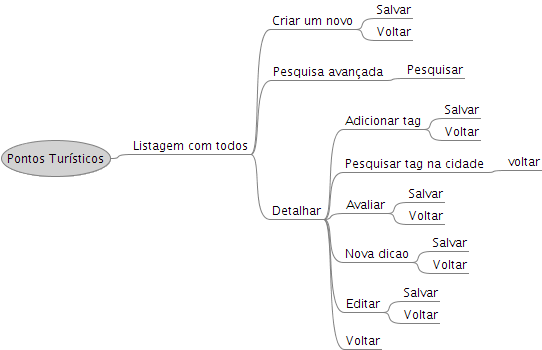
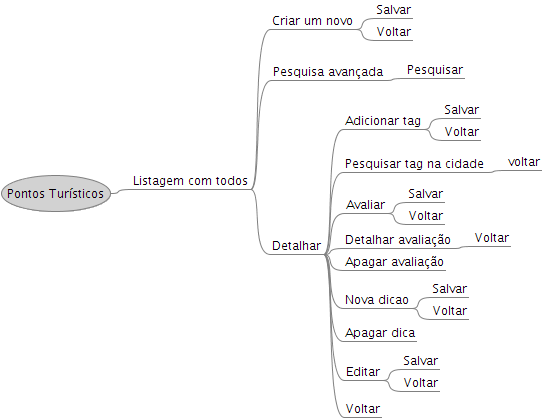
Diagramas de navegação para atribuir dica, atribuir tag, avaliar tema, manter estabelecimento, manter evento, manter usuario e logar no sistema.

diff --git a/documentacao/DiagramasNavegacao/Manter pontoTuristico/manterPontoTuristico.mm b/documentacao/DiagramasNavegacao/Manter pontoTuristico/manterPontoTuristico.mm
@@ -21,10 +21,15 @@
 <node CREATED="1253023569615" ID="Freemind_Link_1799419601" MODIFIED="1253023578962" TEXT="Salvar"/>
 <node CREATED="1253023580273" ID="Freemind_Link_1809619564" MODIFIED="1253023581449" TEXT="Voltar"/>
 </node>
+<node CREATED="1253101224906" ID="Freemind_Link_559347411" MODIFIED="1253101229802" TEXT="Detalhar avalia&#xe7;&#xe3;o">
+<node CREATED="1253101235134" ID="Freemind_Link_1434633921" MODIFIED="1253101236657" TEXT="Voltar"/>
+</node>
+<node CREATED="1253101238304" ID="Freemind_Link_692683979" MODIFIED="1253101243496" TEXT="Apagar avalia&#xe7;&#xe3;o"/>
 <node CREATED="1253023590004" ID="Freemind_Link_1286250133" MODIFIED="1253023757115" TEXT="Nova dicao" VSHIFT="5">
 <node CREATED="1253023598645" ID="Freemind_Link_1900614142" MODIFIED="1253023599679" TEXT="Salvar"/>
 <node CREATED="1253023600743" ID="Freemind_Link_898643252" MODIFIED="1253023601819" TEXT="Voltar"/>
 </node>
+<node CREATED="1253101248282" ID="Freemind_Link_572435488" MODIFIED="1253101250799" TEXT="Apagar dica"/>
 <node CREATED="1253023610716" HGAP="21" ID="Freemind_Link_1827640513" MODIFIED="1253023758203" TEXT="Editar" VSHIFT="6">
 <node CREATED="1253023666850" ID="Freemind_Link_559421307" MODIFIED="1253023668096" TEXT="Salvar"/>
 <node CREATED="1253023669313" ID="Freemind_Link_1672620823" MODIFIED="1253023670274" TEXT="Voltar"/>
